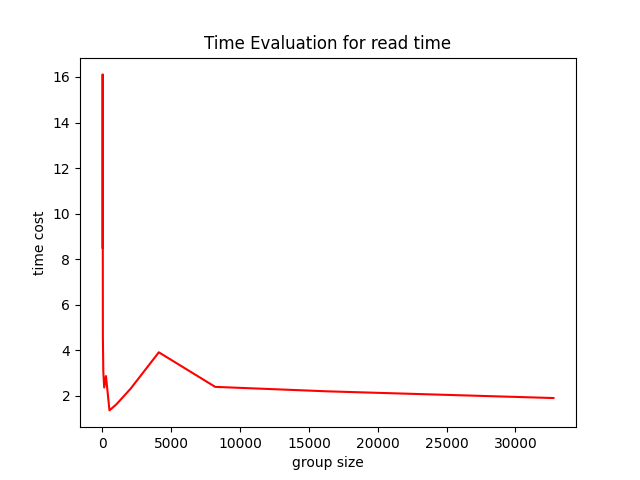
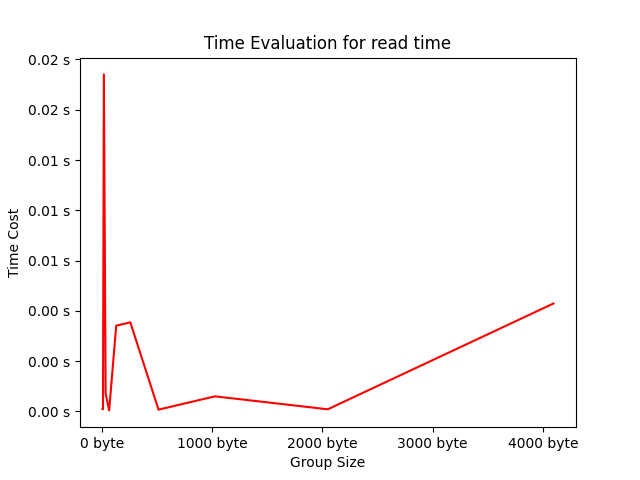
auto visualization ready

diff --git a/visualize_data.py b/visualize_data.py
@@ -32,26 +32,38 @@ class TimeEvaluation(object):
             self.mode_name = "rebuild time"
             test_pipeline = self.evaluate_rebuild_time
             
+        print(" "*5+"Start {} evaluation!".format(self.mode_name))
+            
         if config["mode"] == 1:
             get_data_func = self.get_real_data
         else:
             get_data_func = self.get_synthetic_data
+            
+        print(" "*5+"Use {} data!".format("real" if config["mode"] == 1 else "synthetic"))
         
         group_size_list, time_cost_list = self.evaluation(test_pipeline, get_data_func)
         
         self.visualization(group_size_list, time_cost_list)
-    
+        
+    def to_byte(self, group_size_list):
+        group_size_in_byte = list(map(lambda x: x/8, group_size_list))
+        # print("group_size_in_byte: ", group_size_in_byte)
+        return group_size_in_byte
+        
     def visualization(self, group_size_list, time_cost_list):
-        plt.plot(group_size_list, time_cost_list, 'r-')
+        group_size_list = self.to_byte(group_size_list)
         plt.xlabel('Group Size')
         plt.ylabel('Time Cost')
-        plt.gca().yaxis.set_major_formatter(mticker.FormatStrFormatter('%.1f s'))
+        plt.gca().yaxis.set_major_formatter(mticker.FormatStrFormatter('%.2f s'))
+        plt.gca().xaxis.set_major_formatter(mticker.FormatStrFormatter('%d byte'))
         plt.title('Time Evaluation for %s' % self.mode_name)
+        plt.plot(group_size_list, time_cost_list, 'r-', label=self.mode_name)
         plt.show() 
         plt.savefig(os.path.join(self.config['data_dir'], f"{self.mode_name}_evaluation.png"))
         print("Save the visualization to %s" % os.path.join(self.config['data_dir'], f"{self.mode_name}_evaluation.png"))
         print(" "*5+"Time Evaluation pipeline finished!")
         self.print_spliter()
+        plt.cla()
         
     def evaluation(self, test_pipeline, get_data_func):
         group_size_list = self.config["group_size_list"]
@@ -106,6 +118,11 @@ class TimeEvaluation(object):
 
 if __name__ == "__main__":
     config = Config("raid/configs/time_evaluation.yaml")
-    test_raid6 = TimeEvaluation(config.config)
+    modes = [i for i in range(3)]
+    # print(modes)
+    test_raid6 = [TimeEvaluation(config.config) for config.config["timer_mode"] in modes]
+    # for mode in range(3):
+    #     config.config["timer_mode"] = mode
+    #     test_raid6 = TimeEvaluation(config.config)
 
 
